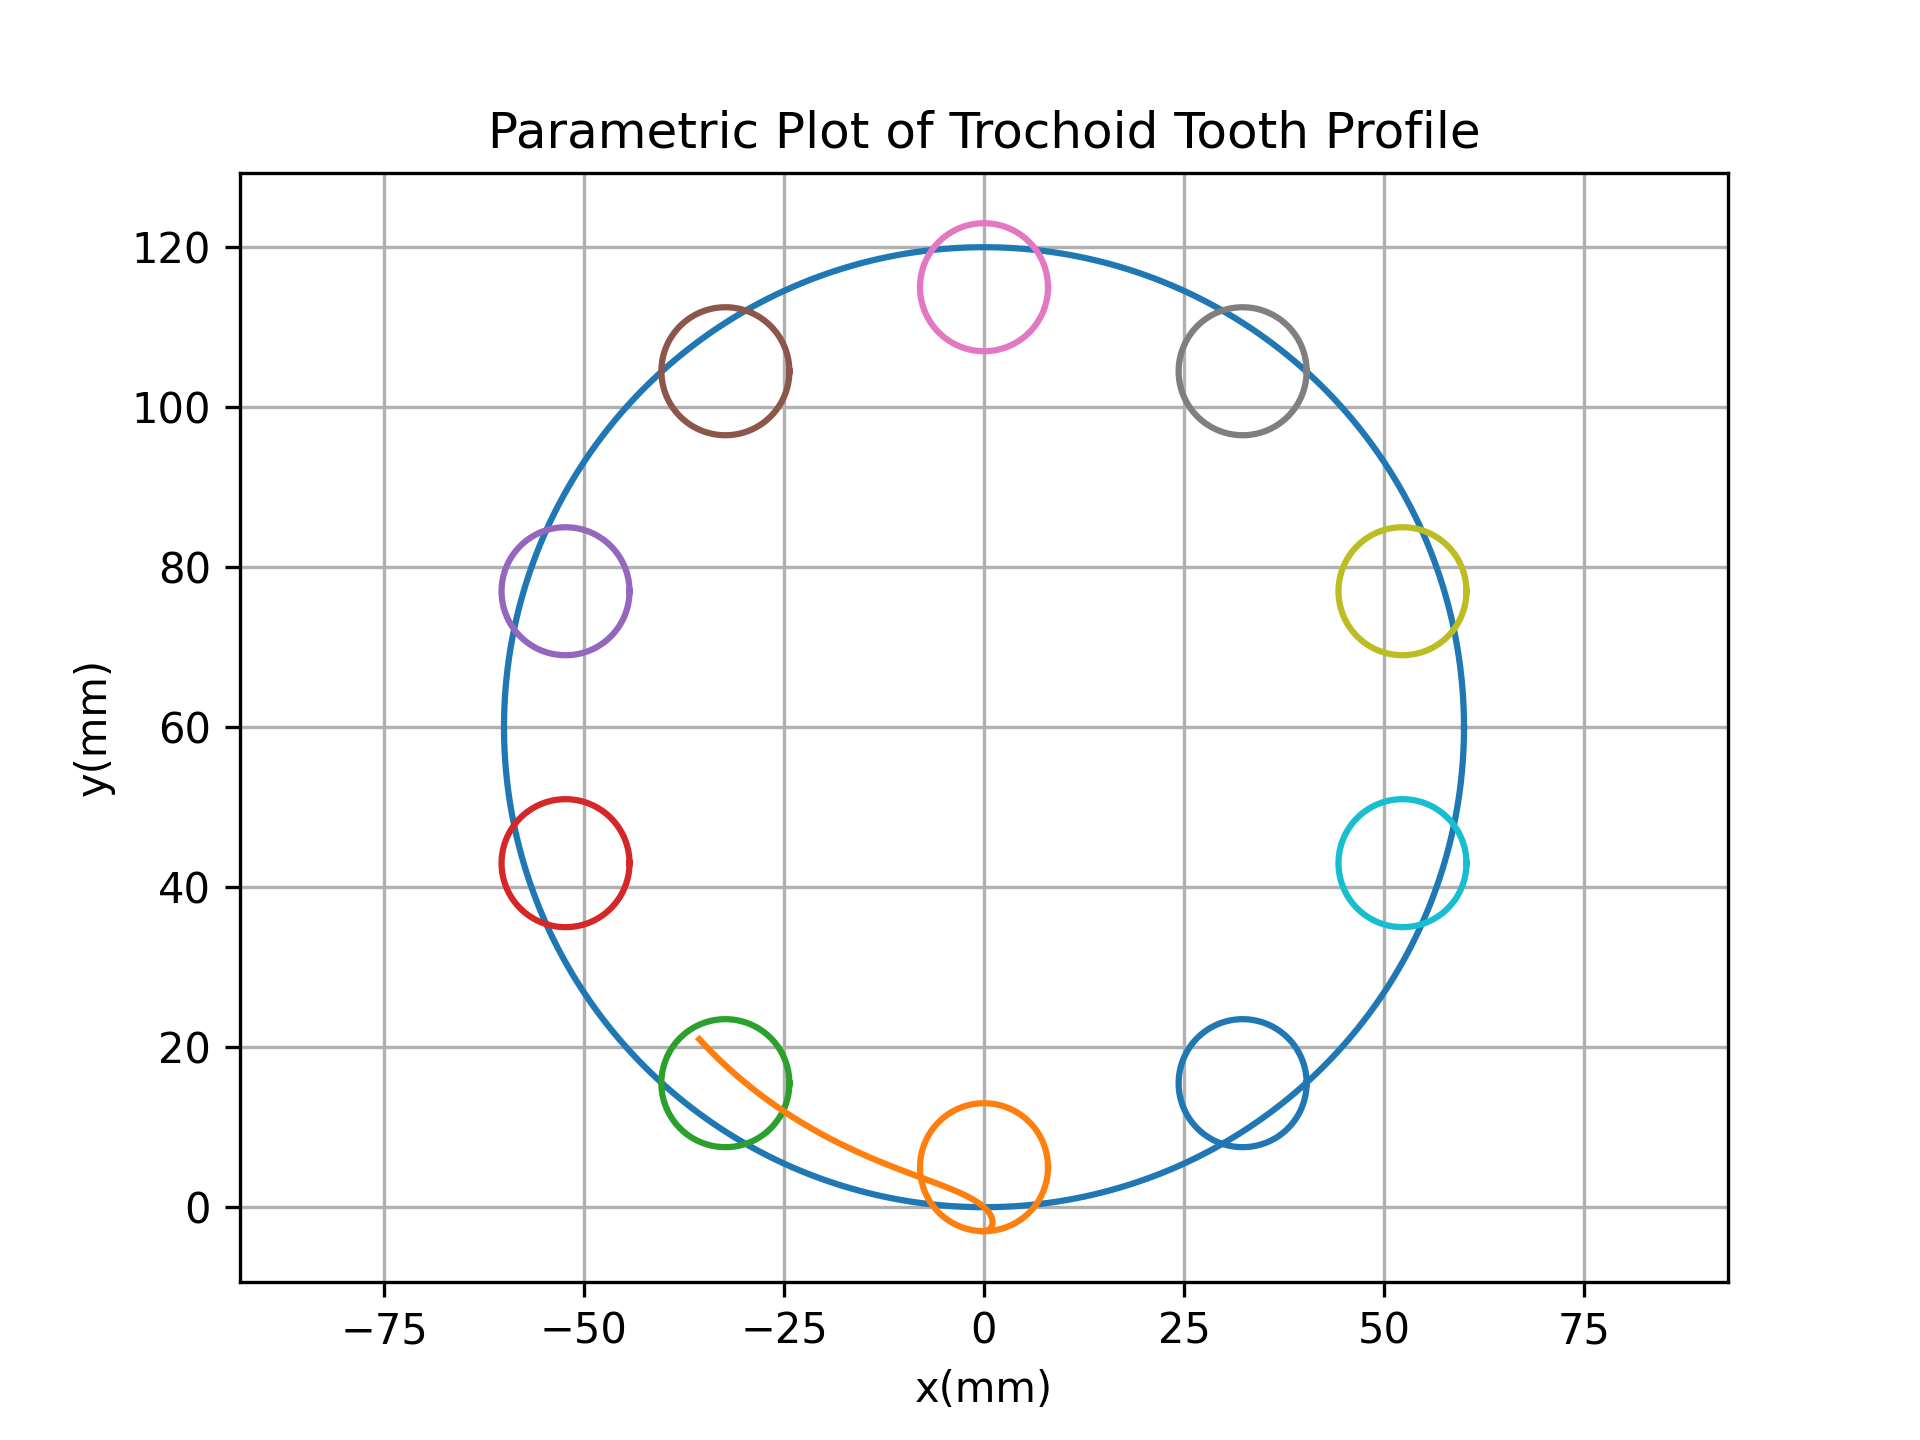
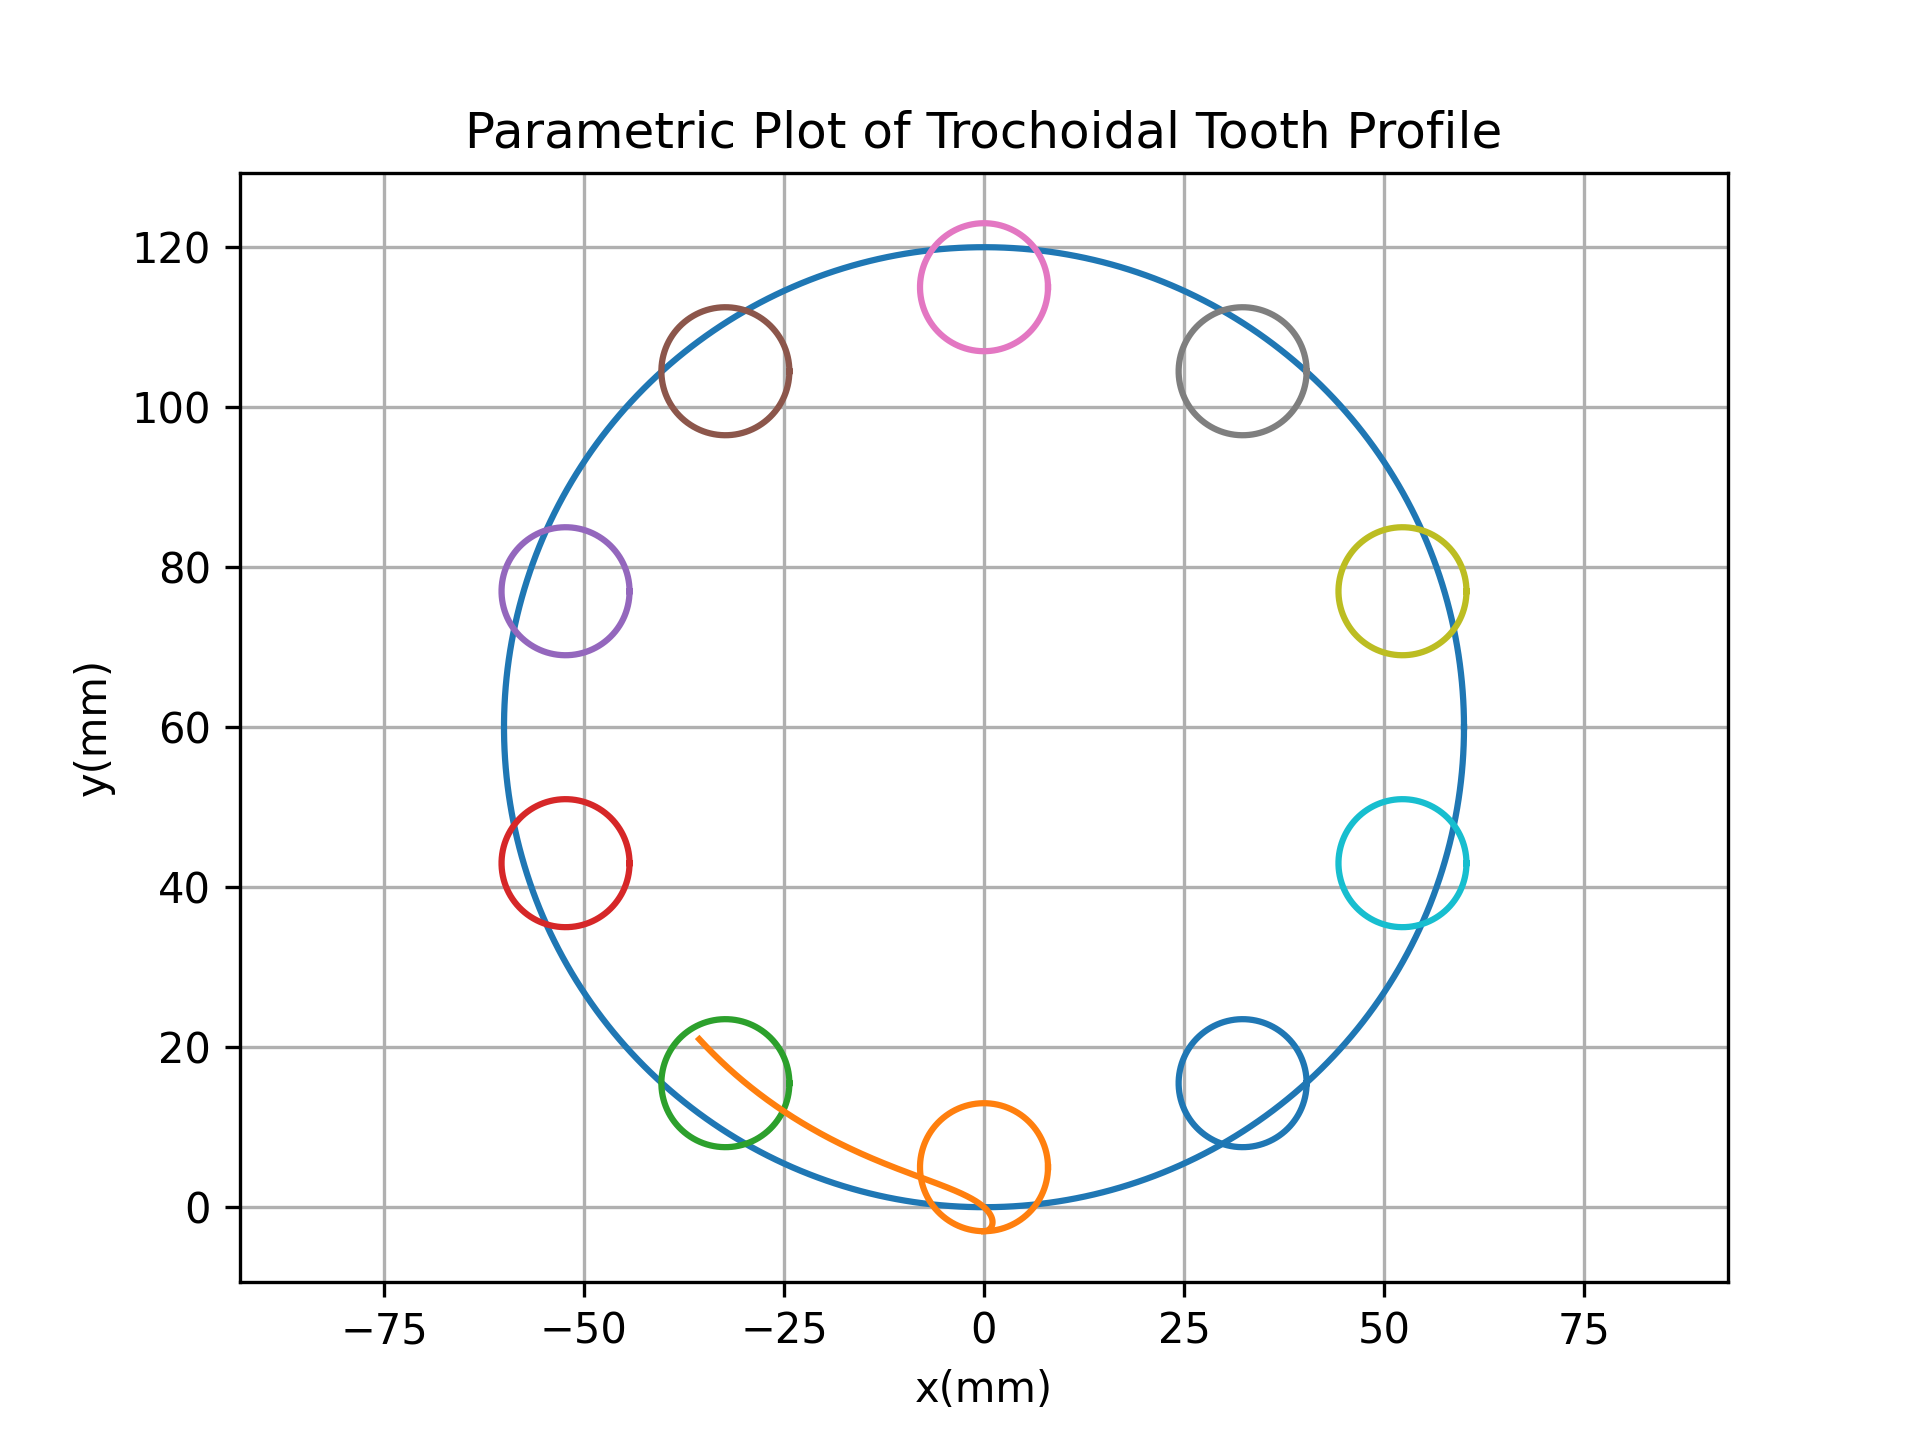
First animation of roller rotation motion and line of action

Changed region(s): [[0.25, 0.0625, 0.7812, 0.125]]

diff --git a/main.py b/main.py
@@ -1,5 +1,9 @@
 import numpy as np
 import matplotlib.pyplot as plt
+import matplotlib
+from matplotlib.animation import FuncAnimation
+
+print(matplotlib.get_backend())
 
 # ---- Parameters (adjust these) ----
 m = 11.0
@@ -14,39 +18,91 @@ beta = np.linspace(0, 2 * np.pi, 1000)
 x_pitch_circle = R * np.cos(beta)
 y_pitch_circle = R * (1 + np.sin(beta))
 
-# ---- Plot ----
-plt.figure()
+# ---- Figure ----
+fig, ax = plt.subplots()
+ax.set_aspect("equal")
+ax.grid()
+# ax.set_xlim([-70, 70])
+# ax.set_ylim([-10, 130])
+ax.set_xlim([-55, 5])
+ax.set_ylim([-10, 50])
 
-plt.plot(x_pitch_circle, y_pitch_circle, label="Pitch Circle")
-plt.xlabel("x(mm)")
-plt.ylabel("y(mm)")
-plt.title("Parametric Plot of Trochoid Tooth Profile")
-plt.axis("equal")
-plt.grid()
+# (pitch_circle,) = ax.plot([], [], lw=2)
+(pitch_circle,) = ax.plot([], [])
+rollers = [ax.plot([], [])[0] for _ in range(z)]
+(line_action,) = ax.plot([], [])
 
-theta = 2 * np.pi / z
-for ii in range(0, z):
-    x_roller = -r * np.sin(theta * ii) + m * c_f / 2 * np.cos(beta)
-    y_roller = R - r * np.cos(theta * ii) + m * c_f / 2 * np.sin(beta)
-    plt.plot(x_roller, y_roller, label=f"Roller {ii}")
+# # ---- Init function ----
+# def init():
+#     # line.set_data([], [])
+#     roller.set_data([], [])
+#     # return line, roller
+#     return rollerclea
 
-# ---- Parameter range (phi) ----
-phi = np.linspace(0, 50.56712 * np.pi / 180, 1000)
+number_frames = 300
+angular_velocity = 0.003
 
-# ---- Intermediate variables ----
-x_A = -(m * z / 2) * np.sin(phi)
-y_A = (m * z / 2) + m * c_y - (m * z / 2) * np.cos(phi)
 
-R = np.sqrt(x_A**2 + y_A**2)
+# ---- Update function ----
+def update(frame):
+    pitch_circle.set_data(x_pitch_circle, y_pitch_circle)
+    angle = frame * angular_velocity  # rotation speed
+    la_angles = np.arange(0.0, number_frames, 1) * angular_velocity
 
-# ---- Avoid division by zero ----
-R_safe = np.where(R == 0, 1e-8, R)
+    for ii in range(z):
+        x_roller, y_roller = rollers_sim(angle, ii, z)
+        rollers[ii].set_data(x_roller, y_roller)
 
-# ---- Final expressions ----
-factor = (R_safe - (m * c_f) / 2) / R_safe
+    x_D, y_D = line_action_sim(la_angles[:frame])
+    line_action.set_data(x_D, y_D)
+    # # Example: moving contact point along curve
+    # idx = frame % len(beta)
+    # roller.set_data(x_roller[idx], y_roller[idx])
+    return pitch_circle, rollers
 
-x_D = x_A * factor
-y_D = y_A * factor
 
-plt.plot(x_D, y_D)
-plt.savefig("plot.png", dpi=300)  # ✅ Save instead of show
+def rollers_sim(t, i, N):
+    angle = t + (2 * np.pi / N) * i
+    x = -r * np.sin(angle) + m * c_f / 2 * np.cos(beta)
+    y = R - r * np.cos(angle) + m * c_f / 2 * np.sin(beta)
+    return x, y
+
+
+def line_action_sim(phi):
+    # # ---- Parameter range (phi) ----
+    # phi = np.linspace(0, 50.56712 * np.pi / 180, 1000)
+
+    # ---- Intermediate variables ----
+    x_A = -(m * z / 2) * np.sin(phi)
+    y_A = (m * z / 2) + m * c_y - (m * z / 2) * np.cos(phi)
+
+    R = np.sqrt(x_A**2 + y_A**2)
+
+    # ---- Avoid division by zero ----
+    R_safe = np.where(R == 0, 1e-8, R)
+
+    # ---- Final expressions ----
+    factor = (R_safe - (m * c_f) / 2) / R_safe
+
+    x_D = x_A * factor
+    y_D = y_A * factor
+    return x_D, y_D
+
+
+# ---- Animation ----
+ani = FuncAnimation(fig, update, frames=number_frames, interval=30)
+# Save animation (important in Visual Studio)
+# ani.save("meshing.gif", writer="pillow", fps=30)
+
+
+# plt.plot(x_pitch_circle, y_pitch_circle, label="Pitch Circle")
+# plt.xlabel("x(mm)")
+# plt.ylabel("y(mm)")
+# plt.title("Parametric Plot of Trochoidal Tooth Profile")
+# plt.axis("equal")
+# plt.grid()
+
+# plt.plot(x_D, y_D)
+plt.show()
+
+# plt.savefig("plot.png", dpi=300)  # ✅ Save instead of show